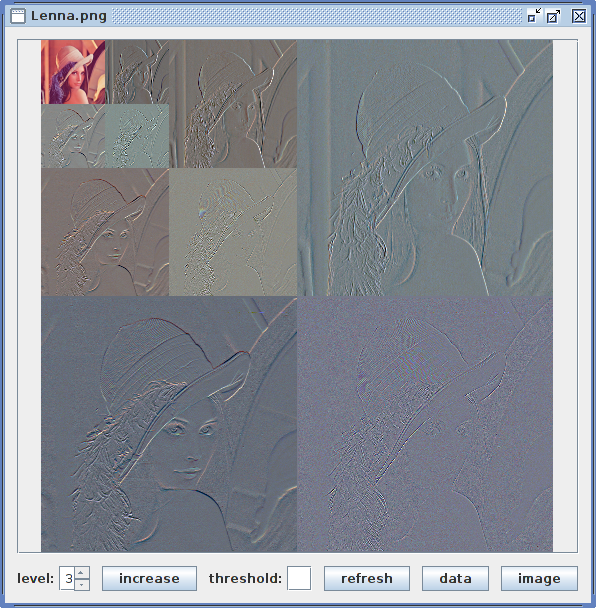
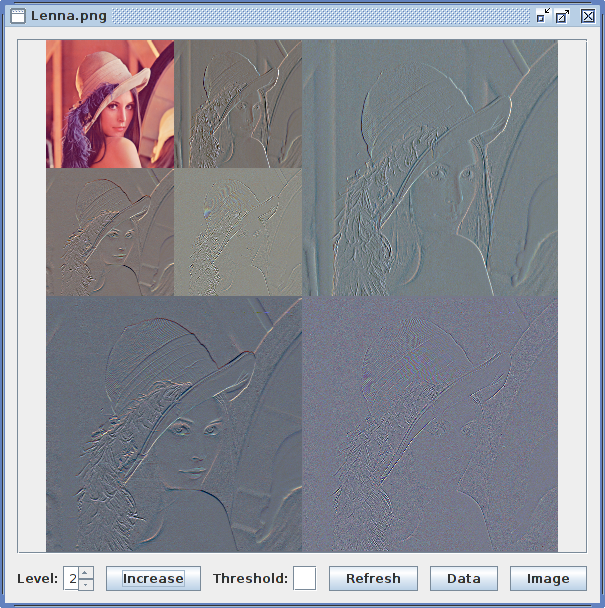
updated transform GUI to the same standard used in the main GUI plus test code

diff --git a/src/io/github/guiritter/wavelet/gui/TransformView1D.java b/src/io/github/guiritter/wavelet/gui/TransformView1D.java
@@ -35,7 +35,7 @@ public final class TransformView1D implements TransformView{
     }
 
     @Override
-    public void setView(double[][] signalArray) {
+    public void setView(double signalArray[][]) {
         panel.removeAll();
         XYSeries series;
         XYSeriesCollection collection;
@@ -61,8 +61,35 @@ public final class TransformView1D implements TransformView{
         panel.repaint();
     }
 
+    /**
+     * TODO test show different soft threshold values
+     * @param signalArray
+     */
+    public void setViewTest0(double signalArray[][]) {
+        panel.removeAll();
+        XYSeries series;
+        XYSeriesCollection collection = new XYSeriesCollection();
+        JFreeChart chart;
+        ChartPanel chartPanel;
+        int j;
+        for (int i = 0; i < signalArray.length; i++) {
+            series = new XYSeries("t = " + (i / 10.0));
+            for (j = 0; j < signalArray[i].length; j++) {
+                series.add(j, signalArray[i][j]);
+            }
+            collection.addSeries(series);
+        }
+        chart = ChartFactory.createXYLineChart("Smooth J = 1", "samples", "value", collection, VERTICAL, true, false, false);
+        chartPanel = new ChartPanel(chart);
+        chartPanel.setFillZoomRectangle(true);
+        chartPanel.setMouseWheelEnabled(true);
+        panel.add(chartPanel);
+        panel.revalidate();
+        panel.repaint();
+    }
+
     @Override
-    public void setView(double[][][][][] componentArray) {
+    public void setView(double componentArray[][][][][]) {
         throw new UnsupportedOperationException("Not supported for this version.");
     }
 
@@ -70,6 +97,12 @@ public final class TransformView1D implements TransformView{
         panel = new JPanel();
         panel.setLayout(new BoxLayout(panel, PAGE_AXIS));
         setView(signalArray);
+    }
+
+    public TransformView1D(double signalArray[][], Boolean test0) {
+        panel = new JPanel();
+        panel.setLayout(new BoxLayout(panel, PAGE_AXIS));
+        setViewTest0(signalArray);
     }
 
     public static void main(String args[]) throws IOException, InterruptedException {

diff --git a/src/io/github/guiritter/wavelet/gui/CommandPanel.java b/src/io/github/guiritter/wavelet/gui/CommandPanel.java
@@ -53,7 +53,7 @@ public abstract class CommandPanel {
         panel = new JPanel();
         panel.setLayout(new BoxLayout(panel, LINE_AXIS));
 
-        JLabel label = new JLabel("level: ");
+        JLabel label = new JLabel("Level: ");
         panel.add(label);
 
         levelSpinner = new JSpinner(new SpinnerNumberModel(level, 0, level, 1));
@@ -70,7 +70,7 @@ public abstract class CommandPanel {
 
         panel.add(Box.createRigidArea(SPACE_DIMENSION));
 
-        JButton button = new JButton("increase");
+        JButton button = new JButton("Increase");
         button.addActionListener((ActionEvent e) -> {
 
             onIncreaseButtonPressed();
@@ -79,7 +79,7 @@ public abstract class CommandPanel {
 
         panel.add(Box.createRigidArea(SPACE_DIMENSION));
 
-        label = new JLabel("threshold: ");
+        label = new JLabel("Threshold: ");
         panel.add(label);
 
         softThresholdField = new JTextField();
@@ -87,7 +87,7 @@ public abstract class CommandPanel {
 
         panel.add(Box.createRigidArea(SPACE_DIMENSION));
 
-        button = new JButton("refresh");
+        button = new JButton("Refresh");
         button.addActionListener((ActionEvent e) -> {
 
             onRefreshButtonPressed();
@@ -96,7 +96,7 @@ public abstract class CommandPanel {
 
         panel.add(Box.createRigidArea(SPACE_DIMENSION));
 
-        button = new JButton("data");
+        button = new JButton("Data");
         button.addActionListener((ActionEvent e) -> {
 
             onDataButtonPressed((int) levelSpinner.getModel().getValue());
@@ -105,7 +105,7 @@ public abstract class CommandPanel {
 
         panel.add(Box.createRigidArea(SPACE_DIMENSION));
 
-        button = new JButton("image");
+        button = new JButton("Image");
         button.addActionListener((ActionEvent e) -> {
 
             onImageButtonPressed();

diff --git a/src/io/github/guiritter/wavelet/Transform.java b/src/io/github/guiritter/wavelet/Transform.java
@@ -29,6 +29,21 @@ public final class Transform {
 
     public final double[][] getInverseView1D(int J, Double softThreshold) {
         return ((Transform1D) data[0]).transformInverse(J, softThreshold);
+        /* TODO test array with different soft threshold values
+        double returnArray[][] = new double[11][];
+        returnArray[ 0] = ((Transform1D) data[0]).transformInverse(0, 0.0d)[0];
+        returnArray[ 1] = ((Transform1D) data[0]).transformInverse(0, 0.1d)[0];
+        returnArray[ 2] = ((Transform1D) data[0]).transformInverse(0, 0.2d)[0];
+        returnArray[ 3] = ((Transform1D) data[0]).transformInverse(0, 0.3d)[0];
+        returnArray[ 4] = ((Transform1D) data[0]).transformInverse(0, 0.4d)[0];
+        returnArray[ 5] = ((Transform1D) data[0]).transformInverse(0, 0.5d)[0];
+        returnArray[ 6] = ((Transform1D) data[0]).transformInverse(0, 0.6d)[0];
+        returnArray[ 7] = ((Transform1D) data[0]).transformInverse(0, 0.7d)[0];
+        returnArray[ 8] = ((Transform1D) data[0]).transformInverse(0, 0.8d)[0];
+        returnArray[ 9] = ((Transform1D) data[0]).transformInverse(0, 0.9d)[0];
+        returnArray[10] = ((Transform1D) data[0]).transformInverse(0, 1.00d)[0];
+        return returnArray;
+        /**/
     }
 
     public final double[][][][][] getInverseView2D(int J, Double softThreshold) {

diff --git a/src/io/github/guiritter/wavelet/gui/TransformFrame.java b/src/io/github/guiritter/wavelet/gui/TransformFrame.java
@@ -139,6 +139,10 @@ public abstract class TransformFrame {
         if (doubleMatrix instanceof double[][]) {
             view = new TransformView1D((double[][]) doubleMatrix);
             level = ((double[][]) doubleMatrix).length - 1;
+            /* TODO test custom constructor
+            level = 1;
+            view = new TransformView1D((double[][]) doubleMatrix, null);
+            /**/
 
         } else if (doubleMatrix instanceof double[][][][][]) {
             view = new TransformView2D((double[][][][][]) doubleMatrix);
